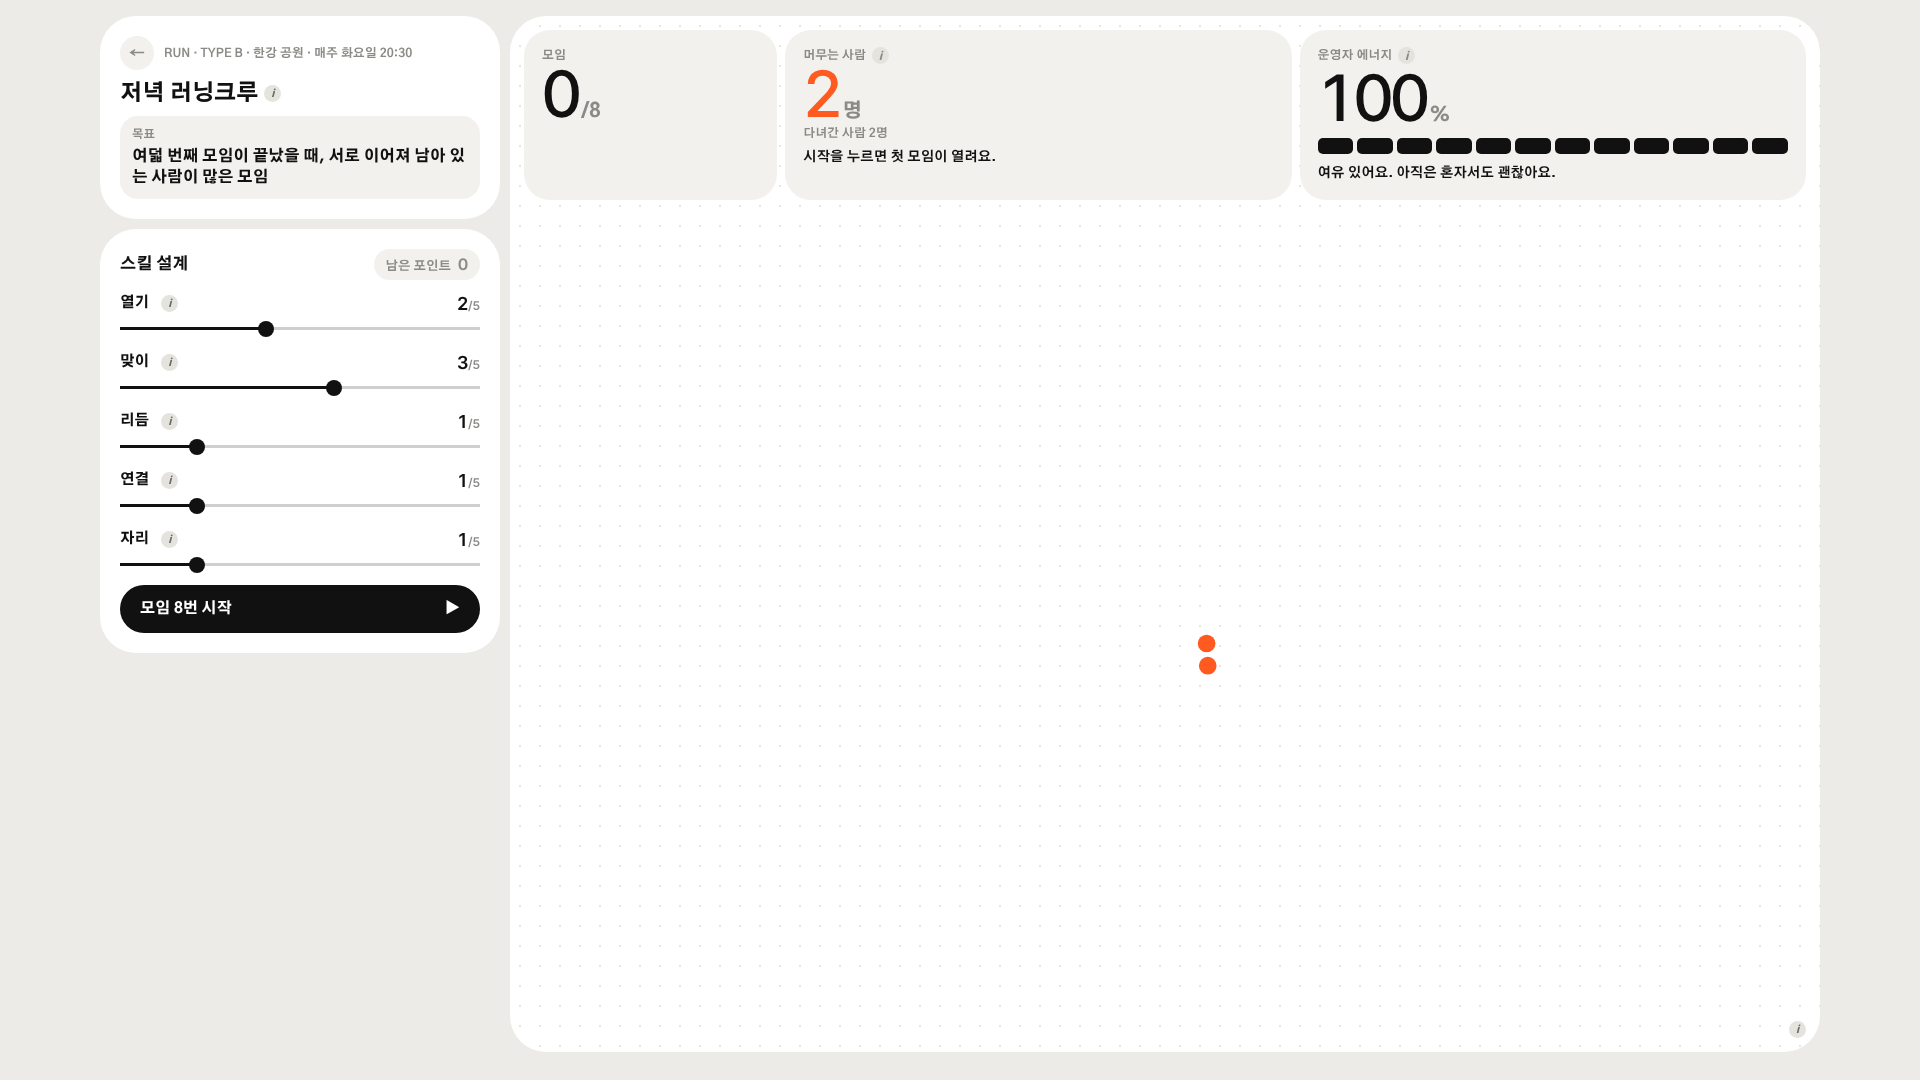
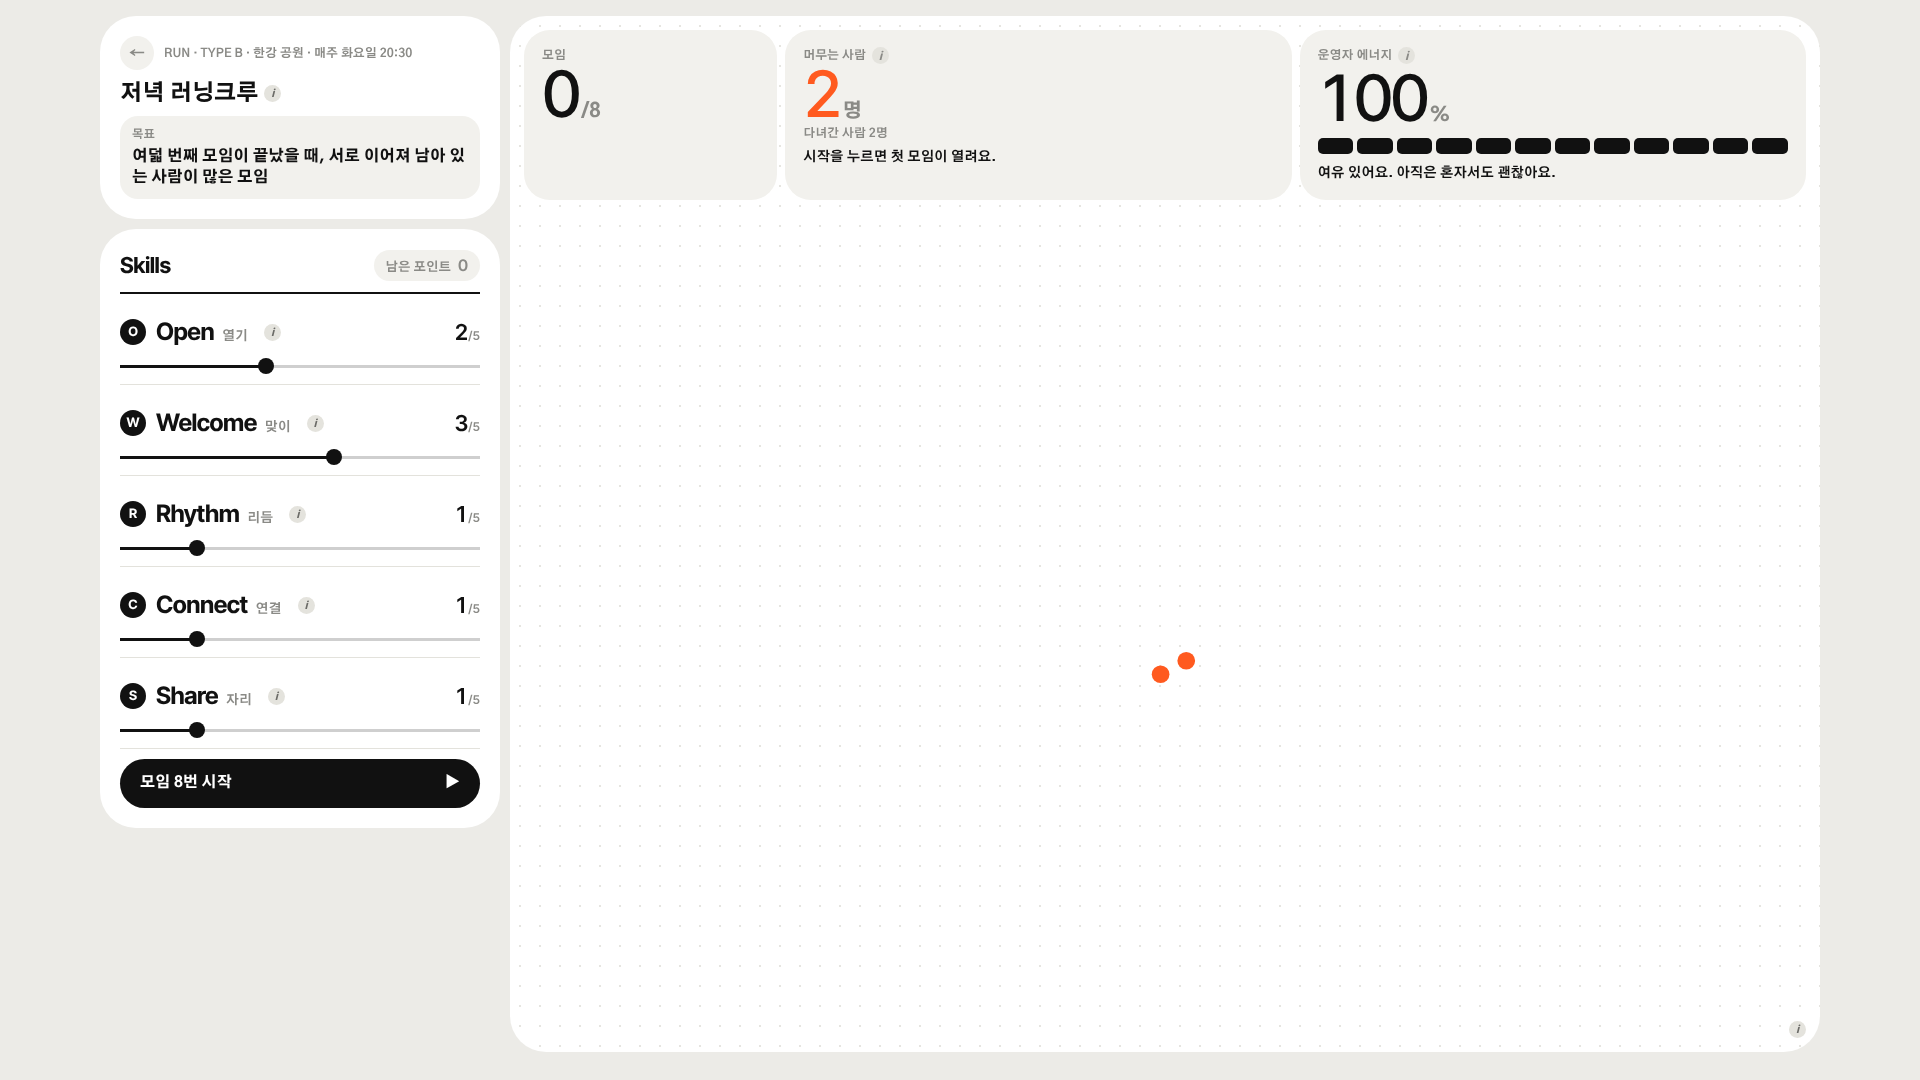
게임 v2.5 시안: Skills 목록을 영문 앞글자 동그라미와 굵은 영문 이름으로
Claude-Session: https://claude.ai/code/session_01SaCvLutmawHZS3kxPWYxw7

Changed region(s): [[0.0625, 0.2139, 0.25, 0.7639], [0.5938, 0.5806, 0.6562, 0.6417], [0.1875, 0.2444, 0.25, 0.3056]]

diff --git a/thesis/game/moim.v07.src.html b/thesis/game/moim.v07.src.html
@@ -647,6 +647,16 @@ body{background:var(--page)}
 .cname{display:flex;align-items:baseline;gap:10px;margin:0}
 .cname b{font-size:20px;font-weight:800;letter-spacing:-.01em}
 .cname span{font-family:var(--f-head);font-weight:600;font-size:13px;color:var(--soft)}
+
+/* ───────── v2.5 Skills: 영문 앞글자 동그라미 + 굵은 영문 이름 목록 ───────── */
+.sk-head{padding-bottom:10px;border-bottom:2px solid var(--ink)}
+.sk-head h3{font-family:var(--f-head);font-weight:700;font-size:22px;letter-spacing:-.02em}
+.pcard .sk{padding:10px 0 8px;border-bottom:1px solid #e3e2dc;gap:6px}
+.sk-name{gap:10px}
+.sk-name .ini{width:26px;height:26px;border-radius:50%;background:var(--ink);color:#fff;font-style:normal;font-family:var(--f-head);font-weight:700;font-size:13px;display:grid;place-items:center;flex:none}
+.sk-name label{font-family:var(--f-head);font-weight:700;font-size:24px;letter-spacing:-.02em;display:flex;align-items:baseline;gap:8px}
+.sk-name label small{font-family:var(--f-body);font-weight:700;font-size:13px;color:var(--soft);letter-spacing:0}
+.sk-val{font-size:22px}
 @media (prefers-reduced-motion:reduce){*{transition:none!important;animation:none!important}}
 </style>
 
@@ -674,7 +684,7 @@ const SKILLS=[
   {k:'welcome',en:'Welcome',name:'맞이',c:COL.red,sub:'처음 온 사람이 누군가와 이어져요',down:''},
   {k:'rhythm',en:'Rhythm',name:'리듬',c:COL.blue,sub:'다시 올 이유와 때가 생겨요',down:'맞이 없이 높으면 부담이 돼요'},
   {k:'conn',en:'Connect',name:'연결',c:COL.green,sub:'구성원끼리 관계가 쌓여요',down:'문이 닫히면 배타적이 돼요'},
-  {k:'roles',en:'Roles',name:'자리',c:COL.violet,sub:'함께 이끄는 사람이 생겨요',down:''}
+  {k:'roles',en:'Share',name:'자리',c:COL.violet,sub:'함께 이끄는 사람이 생겨요',down:''}
 ];
 const VERDICTS={
   self:{t:'스스로 굴러가는 모임',c:COL.green,d:'운영자가 없어도 누군가 처음 온 사람을 맞이해요. 관계가 관계를 부르는 상태예요.',q:'새로 이끄는 사람은 앞으로 어디서 나올까요?'},
@@ -1105,10 +1115,10 @@ function renderPanel(){
       <div class="goal3"><small>목표</small><p>여덟 번째 모임이 끝났을 때, <mark>서로 이어져 남아 있는 사람</mark>이 많은 모임</p></div>
     </section>
     <section class="pcard">
-      <div class="ph"><h3>스킬 설계</h3>${editable?`<span class="pts3 ${st.points?'':'zero'}">남은 포인트 <b>${st.points}</b></span>`:`<span class="pts3 zero">진행 중</span>`}</div>
+      <div class="ph sk-head"><h3>Skills</h3>${editable?`<span class="pts3 ${st.points?'':'zero'}">남은 포인트 <b>${st.points}</b></span>`:`<span class="pts3 zero">진행 중</span>`}</div>
       ${lv?`<div class="lvl2"><small>LEVEL UP · 모임 4번 뒤 진단</small><div class="row2"><b class="hero-n">+${st.gain}</b><span>포인트</span></div><p>${diagnosis()}</p></div>`:''}
       ${SKILLS.map(s=>{const v=st.skills[s.k],lk=st.lock[s.k];return `<div class="sk">
-        <div class="sk-row"><span class="sk-name"><label for="r-${s.k}">${s.name}</label>${info(`${s.sub}${s.down?`<br><span class="neg">${s.down}</span>`:''}`)}</span><span class="sk-val">${v}<em>/${MAXLV}</em>${v>lk&&lv?`<ins>+${v-lk}</ins>`:''}</span></div>
+        <div class="sk-row"><span class="sk-name"><i class="ini">${s.en[0]}</i><label for="r-${s.k}">${s.en}<small>${s.name}</small></label>${info(`${s.sub}${s.down?`<br><span class="neg">${s.down}</span>`:''}`)}</span><span class="sk-val">${v}<em>/${MAXLV}</em>${v>lk&&lv?`<ins>+${v-lk}</ins>`:''}</span></div>
         <input type="range" id="r-${s.k}" data-k="${s.k}" min="0" max="${MAXLV}" step="1" value="${v}" style="--fill:${v/MAXLV*100}%;--c:${s.c}" ${editable?'':'disabled'}></div>`;}).join('')}
       ${editable?`<button class="btn" id="go"><span>${lv?'남은 모임 4번 진행':'모임 8번 시작'}</span><span>▶</span></button>`:`<button class="btn" disabled><span>모임 진행 중</span><span>…</span></button>`}
     </section>

diff --git a/thesis/26-game-prototype.md b/thesis/26-game-prototype.md
@@ -181,3 +181,4 @@
 ## v2.3 시안 (2026-10-28)
 - 결과 화면: EVIDENCE 줄 삭제, 모임 그림은 원의 가운데를 기준으로 정사각형으로 잘라 상자 한가운데에, 왼쪽 그림 상자와 오른쪽 패널의 위쪽 맞춤(뒤로 버튼은 그림 상자 안 왼쪽 위, 날짜는 이름 옆 위첨자), 진단은 한 줄·같은 글꼴, 공동체 의식 위 여백 30px
 - v2.4: 모임 이름(저녁 러닝크루)을 작은 굵은 글씨로 진단 문구 바로 위로 옮김 (No.·날짜와 한 줄), 왼쪽은 그림 → 다음 질문 → 버튼
+- v2.5: 스킬 설계 → Skills, 각 스킬은 영문 앞글자 검은 동그라미 + 굵은 영문 이름 + 작은 한글 이름, 굵은 선·가는 구분선 목록. Roles와 Rhythm의 앞글자가 겹쳐 자리의 영문명을 Share(나눠 맡기)로 바꿈 (연구자 확인 필요)
